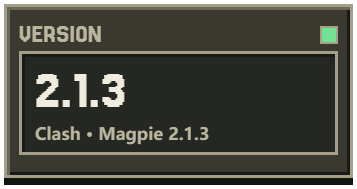
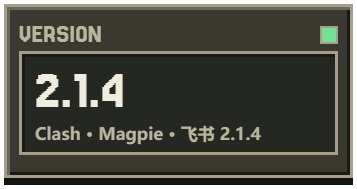
docs(readme): 重渲染 2.1.4 头部版本卡并把飞书纳入版本副标题
render-readme 输出 12 张图、imageLoad/pixelFont 均 true、无标题溢出、consoleErrors 0。
版本卡实读 2.1.4，副标题由 Clash · Magpie 改为 Clash · Magpie · 飞书（本版飞书也从 2.1.0 走到 2.1.4，三插件同版）。
header-metadata.json 的 contentHash 与两文件实算一致：dark cc07ff44、light c2864f46。

Changed region(s): [[0.4622, 0.6614, 0.7395, 0.7672], [0.2773, 0.3704, 0.3697, 0.582]]

diff --git a/assets/readme/header.html b/assets/readme/header.html
@@ -95,8 +95,8 @@ for(const el of document.querySelectorAll('[data-zh]'))el.textContent=el.dataset
       const number=card.querySelector('.number');if(number)number.textContent=v;
       const label=card.querySelector('.metric-label');
       if(label){
-        label.dataset.zh=`Clash · Magpie ${v}`;
-        label.dataset.en=`CLASH · MAGPIE ${v}`;
+        label.dataset.zh=`Clash · Magpie · 飞书 ${v}`;
+        label.dataset.en=`CLASH · MAGPIE · FEISHU ${v}`;
         label.textContent=document.documentElement.lang==='en'?label.dataset.en:label.dataset.zh;
       }
     }
